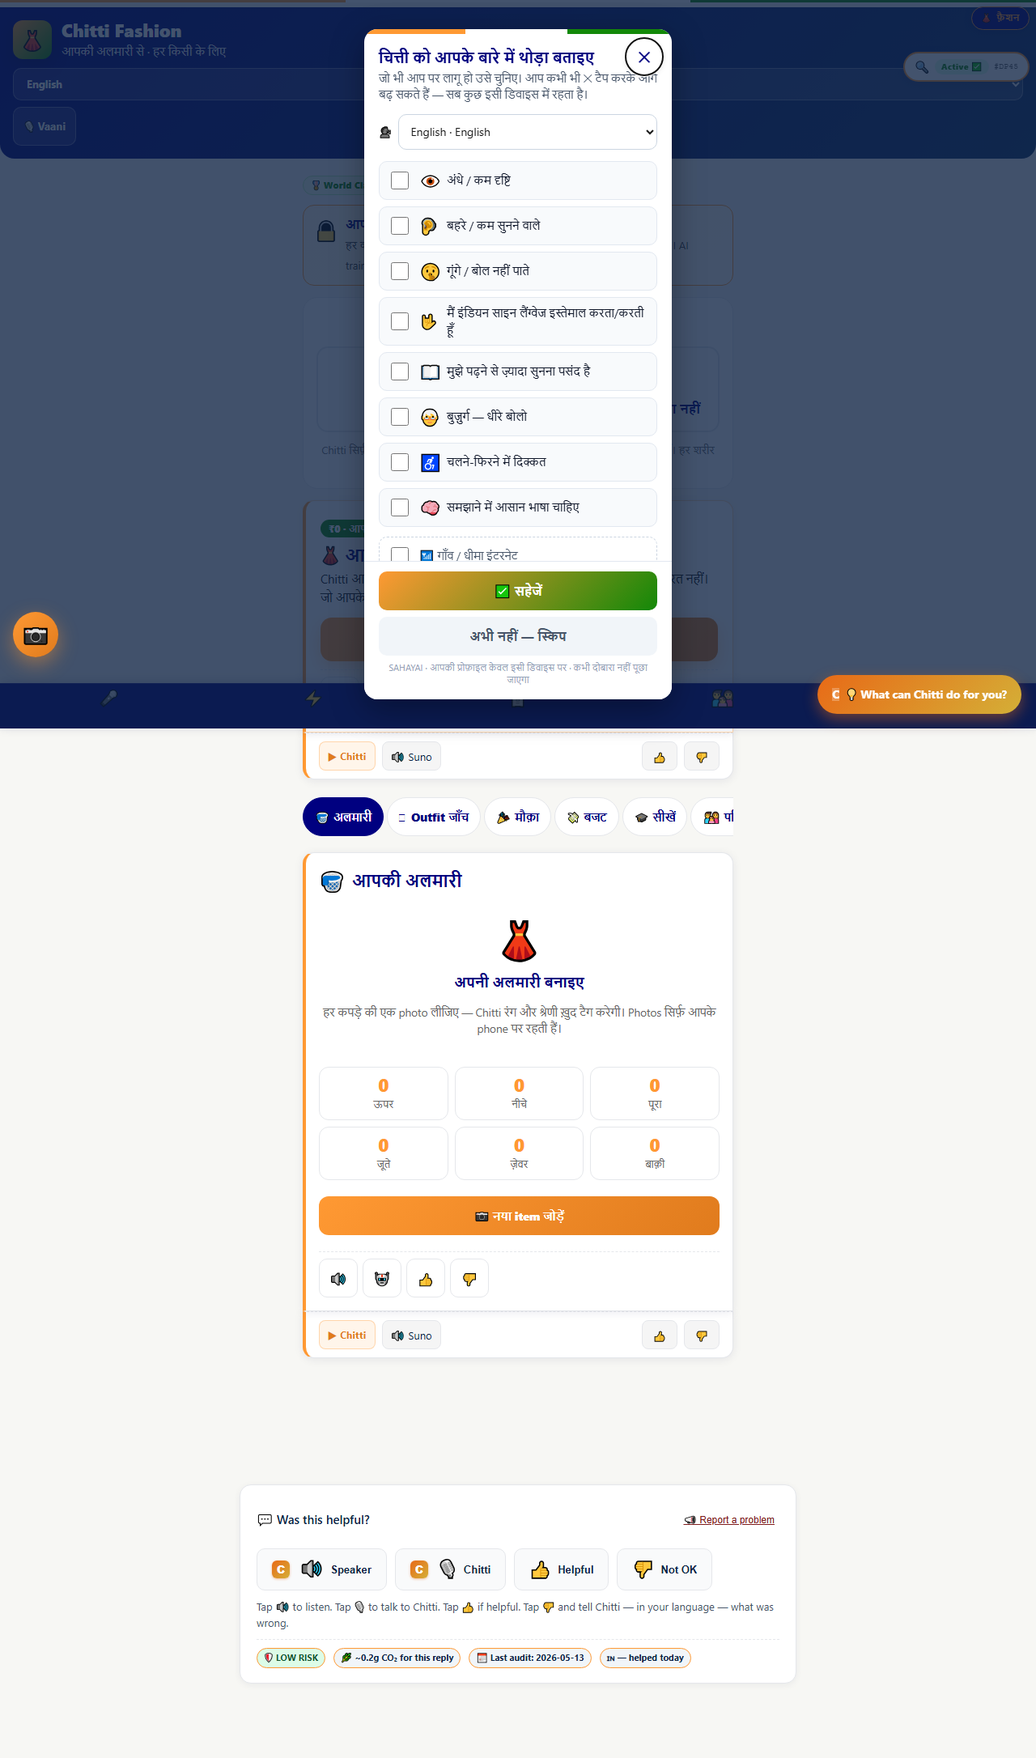
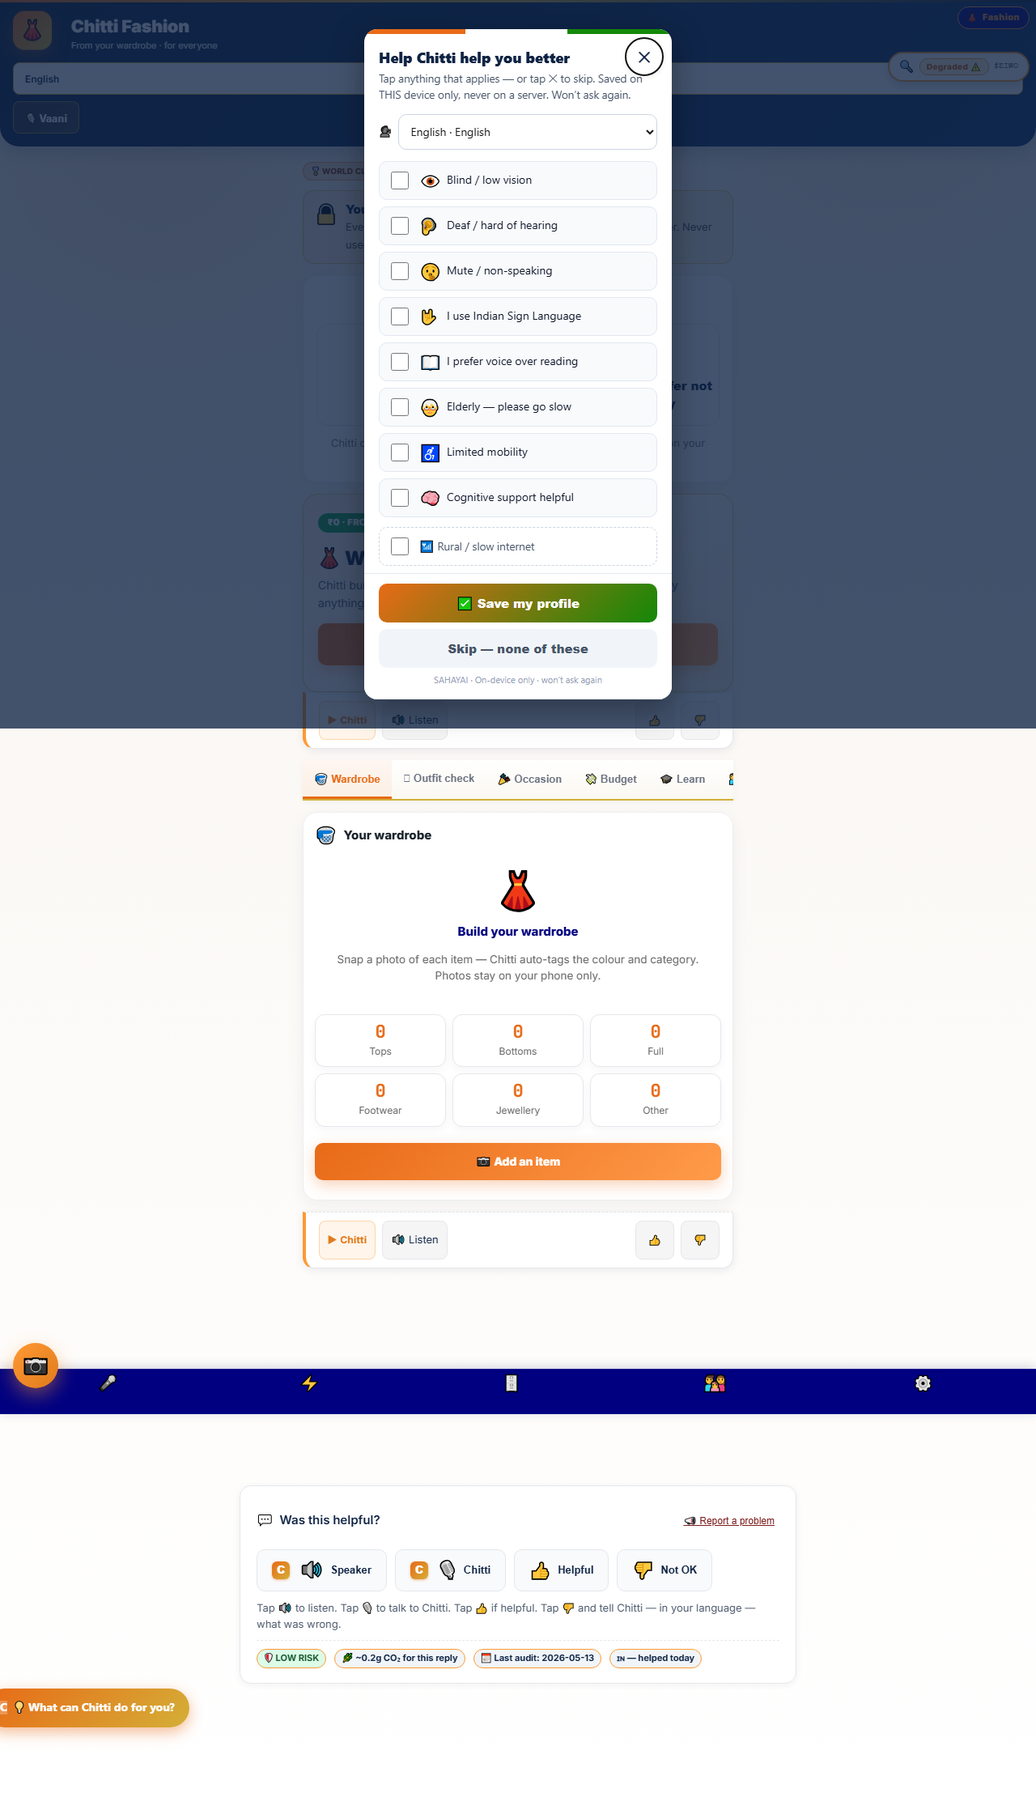
style(fashion): align UI to Chitti MedUPI design system (Bharat saffron/navy/gold)
Rewrote chitti_fashion_ui.css to mirror chitti_medupi.html: navy gradient rounded
header + saffron→gold bharat-logo, 3px Bharat stripe, gold-bordered underline tabs
(saffron active), white section-cards (radius 18, navy shadow), saffron cta buttons,
Inter + JetBrains Mono fonts, MedUPI radial-wash canvas. !important governs look w/o
touching JS/markup. QA 50/50, cert 14/14, 0 overflow, 0 raw keys — gates intact.

diff --git a/chitti_fashion_ui.css b/chitti_fashion_ui.css
@@ -1,170 +1,206 @@
-/* chitti_fashion_ui.css — premium editorial redesign for Chitti Fashion.
-   Loaded LAST so it elevates the look without touching logic/markup/gates.
-   Keeps brand triad (Saffron/Navy/Green, CTO §1); AA contrast; emoji/symbols kept
-   (deaf/illiterate); all data-* attributes untouched. Degrades to system fonts on 2G. */
+/* chitti_fashion_ui.css — Chitti Fashion UI aligned to the CHITTI MEDUPI design system.
+   Loaded LAST + uses !important so it governs the look without touching logic/markup/gates.
+   Palette, header, tabs, cards, buttons all mirror chitti_medupi.html (Bharat saffron/navy/gold,
+   Inter, gold-bordered underline tabs, white section-cards, saffron CTAs). 2026-06-05.
+   Brand triad preserved (CTO §1); AA contrast; emoji/symbols kept (deaf/illiterate). */
 
 :root {
-  --fa-ink: #181826;        /* near-navy ink */
-  --fa-navy: #14143f;
-  --fa-cream: #FAF6EE;      /* warm ivory canvas */
-  --fa-card: #FFFFFF;
-  --fa-line: #ECE3D2;       /* warm hairline */
-  --fa-saffron: #E07B1D;    /* refined saffron */
-  --fa-saffron-2: #FF9A3D;
-  --fa-green: #1A7D3C;
-  --fa-muted: #8C8273;
-  --fa-shadow: 0 8px 30px rgba(24, 18, 6, .08);
-  --fa-shadow-sm: 0 2px 10px rgba(24, 18, 6, .06);
-  --fa-radius: 18px;
+  --saffron: #E86A17; --saffron-2: #ff9b4a;
+  --navy: #0E2344; --navy-2: #16376a;
+  --gold: #D4AF37;
+  --bg: #f8f4ee; --card: #ffffff; --card2: #fbf8f1;
+  --text: #17202a; --muted: #6b7280; --border: #e5e7eb;
+  --green: #16a34a; --red: #dc2626;
 }
 
-/* ---------- typography: editorial serif headings + clean sans body ---------- */
+/* ---------- canvas + type (MedUPI) ---------- */
 body.fa-body, body.sds-page {
-  background: var(--fa-cream) !important;
-  color: var(--fa-ink);
-  font-family: 'Inter', -apple-system, 'Segoe UI', system-ui, sans-serif;
-  font-size: 16px;
-  -webkit-font-smoothing: antialiased;
+  background: linear-gradient(180deg, #f8f4ee, #fff) !important;
+  color: var(--text) !important;
+  font-family: 'Inter', 'Segoe UI', Arial, sans-serif !important;
+  font-size: 15px !important; line-height: 1.45 !important;
+  -webkit-font-smoothing: antialiased; min-height: 100vh; position: relative;
 }
-.fa-hero h2, .sds-card-title, .fa-outfit .title, .sds-brand-name,
-.fa-gender h2, #fa-add-title {
-  font-family: 'Fraunces', 'Playfair Display', Georgia, 'Times New Roman', serif;
-  letter-spacing: -.01em;
+/* soft Bharat radial wash, exactly like MedUPI body:before */
+body.fa-body::before, body.sds-page::before {
+  content: ''; position: fixed; inset: 0; pointer-events: none; z-index: 0;
+  background:
+    radial-gradient(circle at 15% 20%, rgba(232,106,23,.10), transparent 25%),
+    radial-gradient(circle at 85% 10%, rgba(212,175,55,.12), transparent 20%),
+    radial-gradient(circle at 50% 80%, rgba(14,35,68,.08), transparent 28%);
+}
+body.fa-body > *, body.sds-page > * { position: relative; z-index: 1; }
+/* Inter for headings too (drop the editorial serif) */
+.fa-hero h2, .sds-card-title, .fa-outfit .title, .sds-brand-name, .fa-gender h2, #fa-add-title {
+  font-family: 'Inter', 'Segoe UI', Arial, sans-serif !important; letter-spacing: 0 !important;
 }
 
-/* ---------- header: lighter, refined ---------- */
+/* ---------- Bharat stripe (saffron → gold → navy) ---------- */
+.sds-tricolour.fixed, .sds-tricolour {
+  height: 3px !important; background: linear-gradient(90deg, #E86A17, #D4AF37, #0E2344) !important;
+  border: none !important;
+}
+
+/* ---------- HEADER — navy gradient, rounded bottom (MedUPI) ---------- */
 .sds-header {
-  background: linear-gradient(135deg, #14143f 0%, #232366 100%) !important;
-  border-radius: 0 0 22px 22px;
-  box-shadow: var(--fa-shadow);
-  padding: 14px 16px 16px !important;
+  background: linear-gradient(135deg, #0E2344, #16376a) !important;
+  color: #fff !important; border-radius: 0 0 24px 24px !important;
+  padding: 16px !important; box-shadow: 0 8px 22px rgba(14,35,68,.18) !important; margin-top: 0 !important;
 }
-.sds-brand-name { font-size: 22px !important; font-weight: 600 !important; letter-spacing: .2px; }
-.sds-tagline { color: #cfd0f0 !important; font-size: 12.5px !important; font-style: italic; }
-.sds-logo { border-radius: 14px !important; box-shadow: 0 4px 12px rgba(0,0,0,.25); }
+/* bharat-logo: 48px saffron→gold gradient square, floating */
+.sds-logo {
+  width: 48px !important; height: 48px !important; border-radius: 14px !important;
+  background: linear-gradient(135deg, #E86A17, #D4AF37) !important;
+  color: #fff !important; font-size: 24px !important; font-weight: 900 !important;
+  box-shadow: 0 8px 22px rgba(232,106,23,.35) !important; margin-right: 12px !important;
+  display: inline-flex !important; align-items: center; justify-content: center;
+  animation: faFloatB 4s ease-in-out infinite;
+}
+@keyframes faFloatB { 0%,100% { transform: translateY(0); } 50% { transform: translateY(-6px); } }
+.sds-brand-name { font-size: 21px !important; font-weight: 900 !important; color: #fff !important; line-height: 1.1; letter-spacing: 0 !important; }
+.sds-tagline { color: rgba(255,255,255,.85) !important; font-size: 11px !important; font-style: normal !important; margin-top: 2px; }
+/* language select — white field, gold border (MedUPI lang select) */
 .sds-select, #lang-select {
-  background: rgba(255,255,255,.12) !important; color: #fff !important;
-  border: 1px solid rgba(255,255,255,.28) !important; border-radius: 12px !important;
-  padding: 10px 12px !important; font-weight: 600; min-height: 44px;
+  background: #fff !important; color: #0E2344 !important;
+  border: 1px solid #D4AF37 !important; border-radius: 8px !important;
+  padding: 7px 10px !important; font-weight: 600 !important; min-height: 40px !important; font-size: 12px;
 }
+/* header action buttons — translucent (MedUPI header-controls / switch-btn) */
 .sds-header-actions button {
-  background: var(--fa-saffron) !important; color: #fff !important; border: none !important;
-  border-radius: 12px !important; font-weight: 700 !important; min-height: 44px; padding: 0 14px;
-  box-shadow: 0 4px 14px rgba(224,123,29,.4);
+  background: linear-gradient(135deg, rgba(232,106,23,.20), rgba(212,175,55,.20)) !important;
+  color: #fff !important; border: 1px solid rgba(212,175,55,.55) !important;
+  border-radius: 8px !important; font-weight: 700 !important; min-height: 40px !important; padding: 0 14px !important;
+  box-shadow: none !important;
+}
+.sds-header-actions button:hover { filter: brightness(1.1); }
+
+/* World Class badge — MedUPI "chitti-special" pill */
+.fa-badge {
+  background: linear-gradient(135deg, rgba(232,106,23,.18), rgba(212,175,55,.18)) !important;
+  border: 1px solid rgba(232,106,23,.5) !important; color: #7c2d12 !important;
+  text-transform: uppercase; letter-spacing: .05em; font-size: 10px !important; font-weight: 800 !important;
 }
 
-/* World Class badge — subtle, not shouting */
-.fa-badge { background: #fff7ec !important; border-color: #f2d8b4 !important; color: #b4670f !important; }
+/* ---------- TABS — MedUPI nav.tabs (gold underline bar, saffron active) ---------- */
+.fa-tabbar {
+  background: linear-gradient(180deg, #fff, #fbf8f1) !important;
+  border-bottom: 2px solid #D4AF37 !important; box-shadow: 0 2px 8px rgba(0,0,0,.04) !important;
+  gap: 0 !important; padding: 0 !important; margin-bottom: 14px !important;
+  position: sticky !important; top: 0 !important; z-index: 5 !important;
+}
+.fa-tabbar button {
+  background: transparent !important; border: none !important; border-radius: 0 !important;
+  border-bottom: 3px solid transparent !important; color: var(--muted) !important;
+  padding: 14px 14px !important; font-size: 13px !important; font-weight: 600 !important;
+  min-height: 46px !important; white-space: nowrap; box-shadow: none !important;
+}
+.fa-tabbar button:hover { color: var(--text) !important; }
+.fa-tabbar button.active {
+  color: var(--saffron) !important; border-bottom-color: var(--saffron) !important;
+  background: rgba(232,106,23,.06) !important;
+}
 
-/* ---------- HERO — editorial ---------- */
+/* ---------- HERO — Bharat warm panel, navy heading ---------- */
 .fa-hero {
-  background: linear-gradient(135deg, #FFF4E2 0%, #FDEFEA 55%, #F3F7EE 100%) !important;
-  border: 1px solid #F3E2C9 !important; border-radius: 22px !important;
-  padding: 24px 20px !important; box-shadow: var(--fa-shadow) !important;
+  background: linear-gradient(135deg, rgba(232,106,23,.10), #fff 55%, rgba(212,175,55,.12)) !important;
+  border: 1px solid rgba(212,175,55,.55) !important; border-radius: 18px !important;
+  padding: 22px 18px !important; box-shadow: 0 6px 20px rgba(14,35,68,.06) !important;
 }
 .fa-hero .free-pill {
-  background: var(--fa-green) !important; border-radius: 999px; letter-spacing: .03em;
-  font-size: 11px !important; padding: 4px 12px !important; text-transform: uppercase;
+  background: var(--green) !important; border-radius: 999px; letter-spacing: .03em;
+  font-size: 11px !important; padding: 4px 12px !important; text-transform: uppercase; color: #fff !important;
 }
-.fa-hero h2 { font-size: 28px !important; line-height: 1.15 !important; font-weight: 600 !important; color: var(--fa-navy) !important; margin: 10px 0 8px !important; }
-.fa-hero p { color: #5d5547 !important; font-size: 15px !important; }
+.fa-hero h2 { font-size: 24px !important; line-height: 1.2 !important; font-weight: 900 !important; color: var(--navy) !important; margin: 10px 0 8px !important; }
+.fa-hero p { color: #4a5160 !important; font-size: 14px !important; }
 .fa-hero .cta {
-  background: linear-gradient(135deg, var(--fa-saffron), #C9690F) !important;
-  border-radius: 16px !important; font-weight: 700 !important; font-size: 16px !important;
-  box-shadow: 0 10px 26px rgba(224,123,29,.38) !important; letter-spacing: .2px;
-  transition: transform .15s ease, box-shadow .15s ease;
+  background: linear-gradient(135deg, var(--saffron), var(--saffron-2)) !important;
+  border: none !important; border-radius: 10px !important; font-weight: 800 !important; font-size: 15px !important;
+  box-shadow: 0 6px 18px rgba(232,106,23,.30) !important; min-height: 50px !important;
 }
-.fa-hero .cta:hover, .fa-hero .cta:focus-visible { transform: translateY(-2px); box-shadow: 0 14px 32px rgba(224,123,29,.48) !important; outline: none; }
+.fa-hero .cta:hover, .fa-hero .cta:focus-visible { filter: brightness(1.05); outline: none; }
 
-/* ---------- tabs — clean pills with fade scroll ---------- */
-.fa-tabbar { background: transparent !important; padding: 12px 0 6px !important; gap: 8px !important; }
-.fa-tabbar button {
-  background: #fff !important; border: 1px solid var(--fa-line) !important; color: var(--fa-navy) !important;
-  border-radius: 999px !important; font-weight: 600 !important; font-size: 13.5px !important;
-  box-shadow: var(--fa-shadow-sm); padding: 10px 16px !important; transition: all .15s ease;
-}
-.fa-tabbar button.active {
-  background: linear-gradient(135deg, var(--fa-navy), #2a2a72) !important; color: #fff !important;
-  border-color: var(--fa-navy) !important; box-shadow: 0 6px 16px rgba(20,20,63,.32);
-}
-
-/* ---------- cards — generous whitespace, soft elevation ---------- */
+/* ---------- CARDS — MedUPI section-card ---------- */
 .sds-card, .fa-outfit, .fa-video-result {
-  background: var(--fa-card) !important; border: 1px solid var(--fa-line) !important;
-  border-radius: var(--fa-radius) !important; box-shadow: var(--fa-shadow) !important;
-  padding: 18px !important; margin-bottom: 14px !important;
+  background: #fff !important; border: 1px solid #eee !important; border-radius: 18px !important;
+  box-shadow: 0 6px 20px rgba(14,35,68,.06) !important; padding: 14px !important; margin: 0 0 14px !important;
 }
-.sds-card-title { font-size: 19px !important; font-weight: 600 !important; color: var(--fa-navy) !important; margin-bottom: 6px !important; display: flex; align-items: center; gap: 8px; }
-.sds-card-title .ico { font-size: 22px; }
+.sds-card-title { font-size: 15px !important; font-weight: 800 !important; color: var(--text) !important; margin-bottom: 6px !important; display: flex; align-items: center; gap: 8px; }
+.sds-card-title .ico { font-size: 20px; }
 
-/* ---------- buttons ---------- */
+/* ---------- BUTTONS — MedUPI cta-saffron / outline ---------- */
 .fa-btn {
-  border: 1.5px solid var(--fa-saffron) !important; color: #B4670F !important; background: #fff !important;
-  border-radius: 14px !important; font-weight: 700 !important; min-height: 50px !important; transition: all .15s ease;
+  border: 1px solid var(--border) !important; color: var(--navy) !important; background: #fff !important;
+  border-radius: 10px !important; font-weight: 700 !important; min-height: 46px !important;
 }
-.fa-btn:hover { background: #fff6ec !important; }
+.fa-btn:hover { background: rgba(232,106,23,.04) !important; border-color: var(--saffron) !important; }
 .fa-btn.primary {
-  background: linear-gradient(135deg, var(--fa-saffron), #C9690F) !important; color: #fff !important;
-  border: none !important; box-shadow: 0 8px 20px rgba(224,123,29,.34) !important;
+  background: linear-gradient(135deg, var(--saffron), var(--saffron-2)) !important; color: #fff !important;
+  border: none !important; box-shadow: 0 6px 18px rgba(232,106,23,.30) !important; font-weight: 800 !important;
 }
-.fa-btn.primary:hover { transform: translateY(-1px); }
+.fa-btn.primary:hover { filter: brightness(1.05); }
+/* a tag styled as button (find-a-tailor / maps links) */
+a.fa-btn { display: inline-flex; align-items: center; justify-content: center; text-decoration: none; }
 
-/* ---------- input ---------- */
+/* ---------- INPUTS ---------- */
 .fa-input, .fa-field input, .fa-field select {
-  border: 1.5px solid var(--fa-line) !important; border-radius: 14px !important;
-  background: #FDFBF6 !important; min-height: 50px !important; font-size: 15px;
+  border: 1px solid var(--border) !important; border-radius: 10px !important; background: #fff !important;
+  min-height: 46px !important; font-size: 14px; color: var(--text);
 }
-.fa-input:focus, .fa-field input:focus, .fa-field select:focus { outline: none; border-color: var(--fa-saffron) !important; box-shadow: 0 0 0 3px rgba(224,123,29,.15); }
+.fa-input:focus, .fa-field input:focus, .fa-field select:focus { outline: none; border-color: var(--saffron) !important; box-shadow: 0 0 0 3px rgba(232,106,23,.12); }
 
-/* ---------- chips ---------- */
+/* ---------- CHIPS ---------- */
 .fa-chip {
-  border: 1px solid var(--fa-line) !important; border-radius: 999px !important; background: #fff !important;
-  font-weight: 600 !important; box-shadow: var(--fa-shadow-sm); transition: all .12s ease; min-height: 44px;
+  border: 1px solid var(--border) !important; border-radius: 999px !important; background: #fff !important;
+  font-weight: 600 !important; min-height: 44px; color: var(--text) !important;
 }
 .fa-chip.on, .fa-occasion-chips .fa-chip.on {
-  background: #fff3e3 !important; border-color: var(--fa-saffron) !important; color: #B4670F !important;
-  box-shadow: 0 4px 12px rgba(224,123,29,.2);
+  background: rgba(232,106,23,.10) !important; border-color: var(--saffron) !important; color: #b4500f !important;
 }
 
-/* ---------- stats ---------- */
-.fa-stats .stat { background: #FDFBF6 !important; border: 1px solid var(--fa-line) !important; border-radius: 14px !important; box-shadow: none !important; }
-.fa-stats .stat .n { color: var(--fa-saffron) !important; font-weight: 800; }
+/* ---------- stats / metric look ---------- */
+.fa-stats .stat { background: #fff !important; border: 1px solid var(--border) !important; border-radius: 12px !important; box-shadow: 0 4px 12px rgba(14,35,68,.04) !important; }
+.fa-stats .stat .n { color: var(--saffron) !important; font-weight: 800; font-family: 'JetBrains Mono','Menlo',monospace; }
 
 /* ---------- wardrobe tiles ---------- */
-.fa-tile { border: 1px solid var(--fa-line) !important; border-radius: 14px !important; box-shadow: var(--fa-shadow-sm); }
+.fa-tile { border: 1px solid var(--border) !important; border-radius: 12px !important; box-shadow: 0 4px 12px rgba(14,35,68,.04); }
 #fa-grid { gap: 10px !important; }
 
 /* ---------- outfit + swarm + tiers ---------- */
-.fa-outfit .title { font-size: 17px !important; color: var(--fa-navy) !important; }
-.fa-outfit .pieces .p { border-radius: 12px !important; background: #FBF7F0 !important; }
-.fa-swarm { border: 1px solid var(--fa-line) !important; border-radius: 14px !important; box-shadow: var(--fa-shadow-sm); }
-.fa-swarm .head { background: linear-gradient(135deg, var(--fa-navy), #2a2a72) !important; }
-.fa-swarm .head .score { background: var(--fa-saffron) !important; }
-.fa-teach { border-color: #d9d4f0 !important; background: #f6f4fd !important; border-radius: 14px !important; }
-.fa-tier { border-radius: 14px !important; }
-.fa-tier.free { background: #f1faf2 !important; border-color: #bfe6c8 !important; }
-.fa-tier.budget { background: #fff6ec !important; border-color: #f3d6b0 !important; }
+.fa-outfit .title { font-size: 16px !important; color: var(--navy) !important; }
+.fa-outfit .pieces .p { border-radius: 12px !important; background: #fbf8f1 !important; }
+.fa-swarm { border: 1px solid var(--border) !important; border-radius: 12px !important; box-shadow: 0 4px 12px rgba(14,35,68,.04); }
+.fa-swarm .head { background: linear-gradient(135deg, var(--navy), var(--navy-2)) !important; }
+.fa-swarm .head .score { background: var(--saffron) !important; }
+.fa-swarm .row .ag { color: var(--navy) !important; }
+.fa-swarm .row .sc { color: var(--green) !important; }
+.fa-teach { border-color: rgba(212,175,55,.45) !important; background: #fbf8f1 !important; border-radius: 12px !important; }
+.fa-teach summary { color: var(--saffron) !important; }
+.fa-tier { border-radius: 12px !important; }
+.fa-tier.free { background: rgba(22,163,74,.08) !important; border-color: rgba(22,163,74,.4) !important; }
+.fa-tier.free .lab { color: var(--green) !important; }
+.fa-tier.budget { background: rgba(232,106,23,.06) !important; border-color: rgba(232,106,23,.4) !important; }
+.fa-tier.budget .lab { color: #b4500f !important; }
 
-/* ---------- per-box toolbar — quiet, elegant ---------- */
-.fa-toolbar { border-top: 1px solid var(--fa-line) !important; padding-top: 10px !important; gap: 8px !important; }
-.fa-toolbar button {
-  border: 1px solid var(--fa-line) !important; background: #FDFBF6 !important; border-radius: 12px !important;
-  min-width: 46px !important; min-height: 44px !important; transition: background .12s ease;
+/* ---------- per-box toolbar + feedback bar ---------- */
+.fa-toolbar { border-top: 1px solid var(--border) !important; padding-top: 10px !important; gap: 8px !important; }
+.fa-toolbar button, .fa-spk {
+  border: 1px solid var(--border) !important; background: #fff !important; border-radius: 8px !important;
+  min-width: 44px !important; min-height: 40px !important; cursor: pointer;
 }
-.fa-toolbar button:hover { background: #fff3e3 !important; }
+.fa-toolbar button:hover, .fa-spk:hover { background: rgba(232,106,23,.06) !important; color: var(--saffron) !important; }
 
-/* ---------- gender onboarding ---------- */
-.fa-gender { border: 1px solid var(--fa-line) !important; border-radius: 20px !important; box-shadow: var(--fa-shadow); }
-.fa-gender .opts button { border-radius: 16px !important; border: 1.5px solid var(--fa-line) !important; }
-.fa-gender .opts button.active { background: #fff3e3 !important; border-color: var(--fa-saffron) !important; }
+/* ---------- privacy + gender onboarding (Bharat) ---------- */
+.fa-privacy { background: linear-gradient(135deg, rgba(232,106,23,.08), rgba(212,175,55,.10)) !important; border: 1px solid rgba(212,175,55,.55) !important; border-radius: 14px !important; }
+.fa-privacy .info b { color: var(--navy) !important; }
+.fa-gender { border: 1px solid #eee !important; border-radius: 18px !important; box-shadow: 0 6px 20px rgba(14,35,68,.06); }
+.fa-gender h2 { color: var(--navy) !important; font-weight: 900 !important; }
+.fa-gender .opts button { border-radius: 14px !important; border: 1.5px solid var(--border) !important; color: var(--navy) !important; }
+.fa-gender .opts button.active { background: rgba(232,106,23,.08) !important; border-color: var(--saffron) !important; }
 
-/* ---------- modal ---------- */
-.fa-add .sheet { border-radius: 24px 24px 0 0 !important; box-shadow: 0 -10px 40px rgba(0,0,0,.25); }
+/* ---------- spinner + add-sheet ---------- */
+.fa-spin { border-color: var(--saffron) !important; border-top-color: transparent !important; }
+.fa-add .sheet { border-radius: 20px 20px 0 0 !important; box-shadow: 0 -10px 40px rgba(14,35,68,.25); }
+.fa-add .sheet h2 { color: var(--navy) !important; }
 
-/* keep tricolour accent but slimmer */
-.sds-tricolour.fixed { height: 4px !important; }
-
-@media (min-width: 760px) {
-  main { max-width: 720px; margin: 0 auto; }
-  .fa-hero h2 { font-size: 34px !important; }
-}
+@media (min-width: 760px) { main { max-width: 1100px; margin: 0 auto; } }
+@media (max-width: 640px) { .sds-brand-name { font-size: 18px !important; } .fa-tabbar button { font-size: 12px !important; padding: 12px 10px !important; } }

diff --git a/chitti_fashion.html b/chitti_fashion.html
@@ -11,12 +11,12 @@
 <meta name="chitti-features" content="chitti-fashion/skills/FEATURES.md">
 <link rel="stylesheet" href="sahayai_design_system.css">
 <link rel="stylesheet" href="chitti_theme.css">
-<!-- Premium editorial fonts (degrade to system fonts on slow links) -->
+<!-- Chitti MedUPI design system fonts: Inter (UI) + JetBrains Mono (numbers). Degrade to system on slow links. -->
 <link rel="preconnect" href="https://fonts.googleapis.com">
 <link rel="preconnect" href="https://fonts.gstatic.com" crossorigin>
-<link rel="stylesheet" href="https://fonts.googleapis.com/css2?family=Fraunces:opsz,wght@9..144,500;9..144,600&family=Inter:wght@400;500;600;700&display=swap">
-<!-- World-class editorial redesign — loaded LAST so it elevates the look (logic untouched) -->
-<link rel="stylesheet" href="chitti_fashion_ui.css?v=20260605">
+<link rel="stylesheet" href="https://fonts.googleapis.com/css2?family=Inter:wght@400;500;600;700;800;900&family=JetBrains+Mono:wght@600;700&display=swap">
+<!-- UI aligned to chitti_medupi.html design system — loaded LAST so it governs the look (logic untouched) -->
+<link rel="stylesheet" href="chitti_fashion_ui.css?v=20260605b">
 <!-- strings.js + chitti_lang.js before paint so i18n keys resolve; defer keeps parse non-blocking -->
 <script src="strings.js?v=20260605" defer></script>
 <script src="chitti_lang.js?v=20260605" defer></script>
